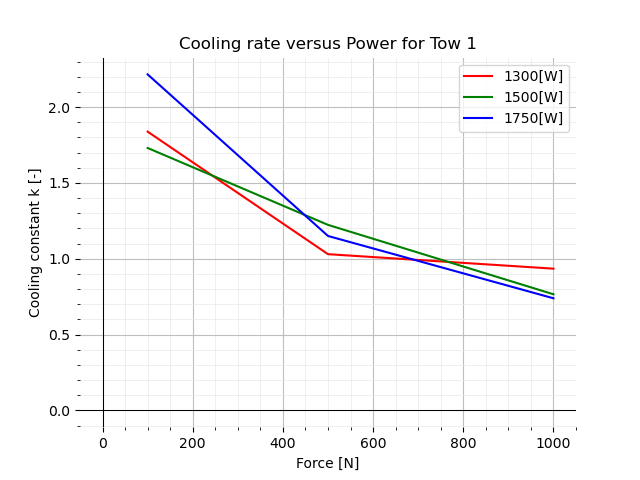
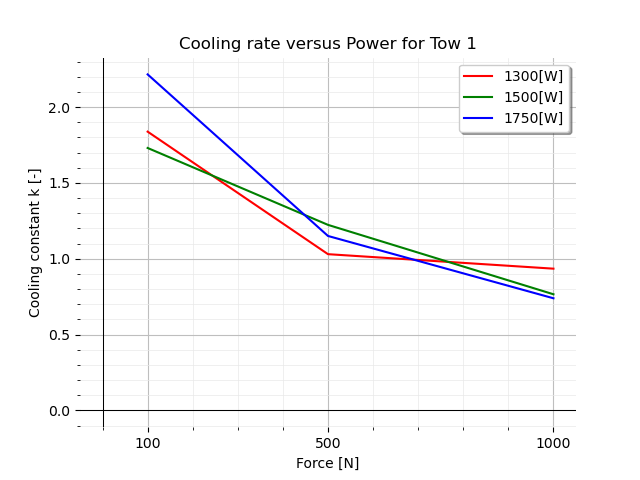
bzbz1

diff --git a/temperature_history.py b/temperature_history.py
@@ -229,11 +229,12 @@ if __name__ == '__main__':
     plt.grid(b=True, which='major', color='#bebebe', linestyle='-')
     plt.grid(b=True, which='minor', color='#e9e9e9', linestyle='-', linewidth=0.5)
     plt.minorticks_on()
+    plt.xticks([100, 500, 1000])
     plt.plot(P13_1[0], P13_1[1], color='r', label='1300[W]')
     plt.plot(P15_1[0], P15_1[1], color='g', label='1500[W]')
     plt.plot(P175_1[0], P175_1[1], color='b', label='1750[W]')
     plt.title('Cooling rate versus Power for Tow 1')
-    plt.legend()
+    plt.legend(loc="best", fancybox = True, shadow = True)
     plt.savefig('cooling/fit/Tow1.png')
     plt.clf()
 
@@ -245,6 +246,7 @@ if __name__ == '__main__':
     plt.grid(b=True, which='major', color='#bebebe', linestyle='-')
     plt.grid(b=True, which='minor', color='#e9e9e9', linestyle='-', linewidth=0.5)
     plt.minorticks_on()
+    plt.xticks([100, 500, 1000])
     plt.plot(P13_7[0], P13_7[1], color='r', label='1300[W]')
     plt.plot(P15_7[0], P15_7[1], color='g',label='1500[W]')
     plt.plot(P175_7[0], P175_7[1], color='b', label='1750[W]')
@@ -262,11 +264,12 @@ if __name__ == '__main__':
     plt.grid(b=True, which='major', color='#bebebe', linestyle='-')
     plt.grid(b=True, which='minor', color='#e9e9e9', linestyle='-', linewidth=0.5)
     plt.minorticks_on()
+    plt.xticks([100, 500, 1000])
     plt.plot(P13_3[0], P13_3[1], color='c', label='1300[W]')
     plt.plot(P15_3[0], P15_3[1], color='m', label='1500[W]')
     plt.plot(P175_3[0], P175_3[1], color='y', label='1750[W]')
     plt.title('Cooling rate versus Power for Tow 3')
-    plt.legend()
+    plt.legend(loc="best", fancybox = True, shadow = True)
     plt.savefig('cooling/fit/Tow3.png')
     plt.clf()
 
@@ -278,11 +281,12 @@ if __name__ == '__main__':
     plt.grid(b=True, which='major', color='#bebebe', linestyle='-')
     plt.grid(b=True, which='minor', color='#e9e9e9', linestyle='-', linewidth=0.5)
     plt.minorticks_on()
+    plt.xticks([100, 500, 1000])
     plt.plot(P13_5[0], P13_5[1], color='c', label='1300[W]')
     plt.plot(P15_5[0], P15_5[1], color='m', label='1500[W]')
     plt.plot(P175_5[0], P175_5[1], color='y', label='1750[W]')
     plt.title('Cooling rate versus Power for Tow 5')
-    plt.legend()
+    plt.legend(loc="best", fancybox = True, shadow = True)
     plt.savefig('cooling/fit/Tow5.png')
     plt.clf()
 
